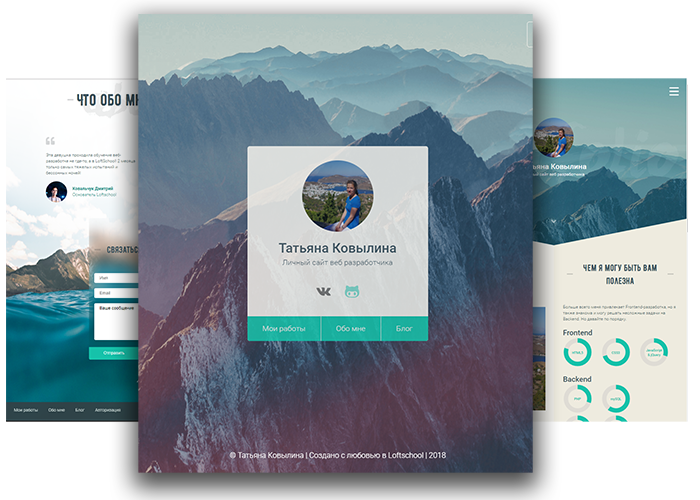
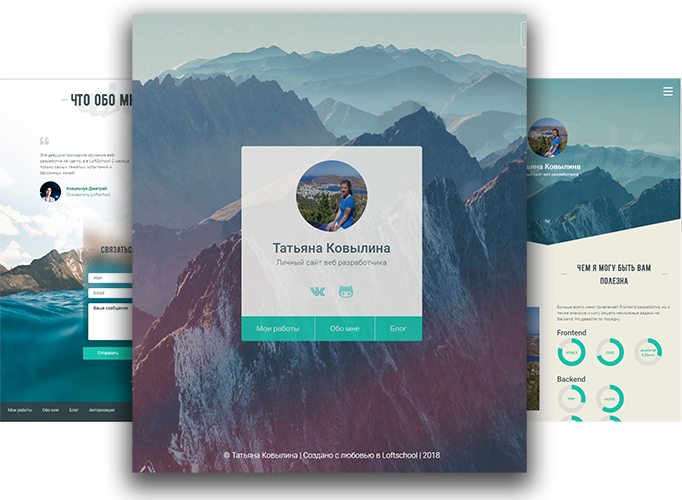
preloader and some correction

diff --git a/src/assets/scripts/modules/preloader.js b/src/assets/scripts/modules/preloader.js
@@ -1,0 +1,43 @@
+// Получим прелоудер
+const preloader = document.querySelector(".preloader");
+// Получим картинки на странице
+const images = document.getElementsByTagName("img");
+// Получим количество картинок на странице
+const imagesCount = images.length;
+// Блок, отображающий проценты
+const percentBlock = document.querySelector(".preloader__progress-percent");
+// Количество процентов на загрузку одной картинки
+const percentStep = 100 / imagesCount;
+// Количество загруженных картинок
+var loadedImages = 0;
+
+for (var i = 0; i < imagesCount; i++) {
+  // Создадим клон изображения
+  var imageClone = new Image();
+  imageClone.onload = imageLoaded;
+  imageClone.onerror = imageLoaded;
+  imageClone.src = images[i].src;
+}
+
+function imageLoaded() {
+  // Увеличим количество загруженных картинок
+  loadedImages++;
+
+  // Увеличим размер штриха
+  const circles = document.querySelectorAll(".preloader__circle");
+  Array.from(circles).forEach((item, index) => {
+    item.style.strokeDashoffset =
+      (251 / 100) * (100 - percentStep * loadedImages);
+  });
+
+  // Увеличим счетчик на странице
+  percentBlock.innerHTML = ((percentStep * loadedImages) << 0) + "%";
+
+  if (loadedImages >= imagesCount) {
+    setTimeout(function() {
+      if (!preloader.classList.contains("preloader--done")) {
+        preloader.classList.add("preloader--done");
+      }
+    }, 1000);
+  }
+}

diff --git a/src/assets/styles/blocks/preloader.scss b/src/assets/styles/blocks/preloader.scss
@@ -1,0 +1,76 @@
+.preloader {
+  position: fixed;
+  display: flex;
+  align-items: center;
+  justify-content: center;
+  top: 0;
+  left: 0;
+  width: 100%;
+  height: 100%;
+  opacity: 1;
+  visibility: visible;
+  background-color: $green;
+  background: url("assets/images/content/preloader-bg.jpg");
+  background-size: cover;
+  background-repeat: no-repeat;
+  z-index: 200;
+}
+
+.preloader--done {
+  opacity: 0;
+  visibility: hidden;
+}
+
+.preloader__container {
+  display: inline-block;
+  width: 110px;
+  height: 110px;
+}
+
+.preloader__progress {
+  display: block;
+  position: relative;
+  width: 100%;
+  height: 100%;
+}
+
+.preloader__progress-fugure {
+  position: absolute;
+  top: 0;
+  left: 0;
+  width: 100%;
+  height: 100%;
+}
+
+.preloader__progress-fugure--rotate-140deg {
+  transform: rotate(-140deg);
+}
+
+.preloader__progress-fugure--rotate-120deg {
+  transform: rotate(-120deg);
+}
+
+.preloader__progress-fugure--rotate-90deg {
+  transform: rotate(-90deg);
+}
+
+.preloader__circle {
+  fill: transparent;
+  stroke: #fff;
+  stroke-width: 2px;
+  stroke-dasharray: 251;
+  stroke-dashoffset: 251;
+  transition-property: stroke-dashoffset;
+  transition-duration: 0.7s;
+}
+
+.preloader__progress-percent {
+  position: absolute;
+  text-align: center;
+  color: #fff;
+  font-size: 12.82px;
+  font-weight: 500;
+  top: 50%;
+  left: 50%;
+  transform: translate(-50%, -50%);
+}

diff --git a/src/assets/styles/blocks/fullscreen-nav.scss b/src/assets/styles/blocks/fullscreen-nav.scss
@@ -1,25 +1,21 @@
 .fullscreen-nav {
-  position: absolute;
-  top: 0;
-  left: 0;
-  bottom: 0;
-  right: 0;
-  background: $green;
   display: none;
-  justify-content: center;
-  z-index: 100;
-  color: #fff;
-  opacity: 0.87;
 }
 
 .fullscreen-nav--active {
+  position: fixed;
+  top: 0;
+  height: 100vh;
+  width: 100%;
   display: flex;
+  align-items: center;
+  justify-content: center;
+  background: $green;
+  z-index: 120;
 }
 
 .fullscreen-nav__nav {
-  position: fixed;
   opacity: 1;
-  z-index: 120px;
   .menu__list {
     flex-direction: column;
     align-items: center;
@@ -59,6 +55,10 @@
       &:after {
         opacity: 1;
       }
+    }
+    @include phones {
+      padding: 20px 70px;
+      font-size: 30px;
     }
   }
 }

diff --git a/src/assets/styles/blocks/hero.scss b/src/assets/styles/blocks/hero.scss
@@ -5,6 +5,7 @@
   padding: 30px;
   display: flex;
   flex-direction: column;
+  justify-content: space-between;
 }
 
 .hero__header {
@@ -12,7 +13,6 @@
   width: 100%;
   justify-content: space-between;
   align-items: center;
-  margin-bottom: 80px;
 }
 
 .hero__menu {
@@ -32,11 +32,7 @@
 }
 
 .hero__title {
-  margin-bottom: 120px;
   position: relative;
-  @include tablets {
-    margin-bottom: 50px;
-  }
 }
 
 .hero__title-pic {

diff --git a/src/assets/scripts/modules/parallax.js b/src/assets/scripts/modules/parallax.js
@@ -22,4 +22,8 @@ const moveLayers = e => {
   });
 };
 
-window.addEventListener("mousemove", moveLayers);
+window.addEventListener("load", init);
+
+function init(e) {
+  window.addEventListener("mousemove", moveLayers);
+}

diff --git a/src/assets/scripts/modules/map.js b/src/assets/scripts/modules/map.js
@@ -1,7 +1,7 @@
 function initMap() {
   var center = {
-    lat: 68.95647,
-    lng: 33.058251
+    lat: 68.958695,
+    lng: 33.051155
   };
 
   var point = {

diff --git a/src/assets/scripts/blog.js b/src/assets/scripts/blog.js
@@ -1,3 +1,4 @@
+import "./modules/preloader";
 import setMargin from "./modules/margin";
 import "./modules/blog-scroll";
 import "./modules/fullscreenmenu";

diff --git a/src/assets/scripts/works.js b/src/assets/scripts/works.js
@@ -1,3 +1,4 @@
+import "./modules/preloader";
 import "./modules/slider";
 import "./modules/blur";
 import "./modules/fullscreenmenu";

diff --git a/src/assets/scripts/about.js b/src/assets/scripts/about.js
@@ -1,3 +1,4 @@
+import "./modules/preloader";
 import "./modules/map";
 import "./modules/skills";
 import "./modules/fullscreenmenu";

diff --git a/src/assets/styles/blocks/blog.scss b/src/assets/styles/blocks/blog.scss
@@ -20,7 +20,7 @@
     right: 100%;
     bottom: 0;
     background-color: $green;
-    z-index: 100;
+    z-index: 160;
   }
 }
 

diff --git a/src/assets/styles/layout/base.scss b/src/assets/styles/layout/base.scss
@@ -69,3 +69,8 @@ figure {
   margin: 0;
   padding: 0;
 }
+
+.section {
+  height: 100vh;
+  min-height: 650px;
+}

diff --git a/src/assets/styles/blocks/blog-menu.scss b/src/assets/styles/blocks/blog-menu.scss
@@ -6,6 +6,7 @@
 .blog-menu--fixed {
   position: fixed;
   top: 0;
+  width: 33%;
 }
 
 .blog-menu__list {
